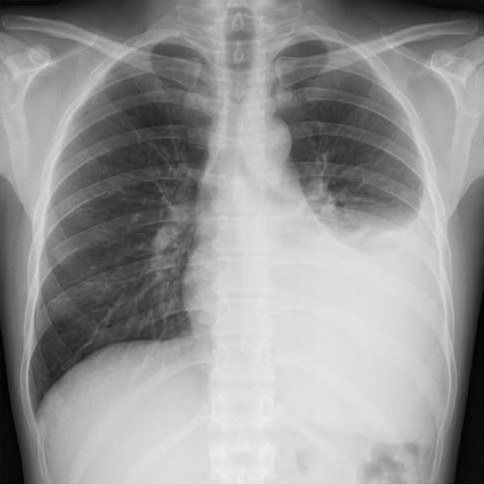
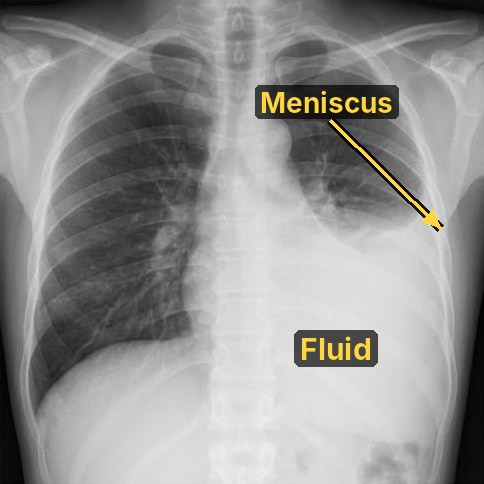
Arrows and labels on X-ray and ultrasound pictures; fix foreign-body X-ray side
Claude-Session: https://claude.ai/code/session_01S3RF2yTnkFKjBRAp2yP5iG

Changed region(s): [[0.5269, 0.155, 0.8368, 0.2789], [0.5888, 0.6818, 0.8058, 0.7748], [0.7128, 0.2789, 0.9298, 0.4959]]

diff --git a/docs/index.html b/docs/index.html
@@ -4274,7 +4274,7 @@ p.sub { font-family:'Inter',sans-serif; font-size:11pt; font-weight:800; color:v
 <tr><td class="hl">Signs</td><td>Larynx: <b>stridor</b>, hoarse voice · bronchus: <b>one-sided wheeze</b>, <b>reduced air entry on one side</b>, not helped by salbutamol</td></tr>
 <tr><td class="hl">Chest X-ray</td><td>Often normal (most objects are not radio-opaque) · <b>expiratory film</b>: <b>air trapping</b> (hyperlucent lung, mediastinum shifts to the other side) · collapse or consolidation later</td></tr>
 <tr><td class="hl">Treatment</td><td><b>Rigid bronchoscopy</b>: both diagnosis and removal · do it whenever the history is suggestive, even if the X-ray is normal</td></tr>
-</tbody></table><div class="photo"><img src="img/cystic-fibrosis_fb_xray.jpg" alt="Inspiration and expiration chest X-rays: the left lung stays dark on expiration" style="height:150px;object-fit:contain;object-position:center"><div class="cap">Expiration (2): the <b>left lung stays dark</b> (air trapping), heart shifts right</div></div></div>
+</tbody></table><div class="photo"><img src="img/cystic-fibrosis_fb_xray.jpg" alt="Inspiration and expiration chest X-rays: the right lung stays dark on expiration" style="height:150px;object-fit:contain;object-position:center"><div class="cap">On expiration the <b>right lung stays dark</b> (air trapping) and the heart shifts left</div></div></div>
 <div class="box next"><div class="bh">Best next step · choking child (paediatric basic life support)</div><ul class="b" style="margin:0">
 <li><b>Effective cough</b> (crying, talking): encourage coughing, watch closely; do not put fingers blindly in the mouth.</li>
 <li><b>Ineffective cough, conscious</b>: under 1 year: <b>5 back blows</b> (head down, prone), then <b>5 chest thrusts</b> · over 1 year: <b>5 back blows</b>, then <b>5 abdominal thrusts</b> (Heimlich) · repeat.</li>

diff --git a/content/topics/cystic-fibrosis.html b/content/topics/cystic-fibrosis.html
@@ -56,7 +56,7 @@
 <tr><td class="hl">Signs</td><td>Larynx: <b>stridor</b>, hoarse voice · bronchus: <b>one-sided wheeze</b>, <b>reduced air entry on one side</b>, not helped by salbutamol</td></tr>
 <tr><td class="hl">Chest X-ray</td><td>Often normal (most objects are not radio-opaque) · <b>expiratory film</b>: <b>air trapping</b> (hyperlucent lung, mediastinum shifts to the other side) · collapse or consolidation later</td></tr>
 <tr><td class="hl">Treatment</td><td><b>Rigid bronchoscopy</b>: both diagnosis and removal · do it whenever the history is suggestive, even if the X-ray is normal</td></tr>
-</tbody></table><div class="photo"><img src="img/cystic-fibrosis_fb_xray.jpg" alt="Inspiration and expiration chest X-rays: the left lung stays dark on expiration" style="height:150px;object-fit:contain;object-position:center"><div class="cap">Expiration (2): the <b>left lung stays dark</b> (air trapping), heart shifts right</div></div></div>
+</tbody></table><div class="photo"><img src="img/cystic-fibrosis_fb_xray.jpg" alt="Inspiration and expiration chest X-rays: the right lung stays dark on expiration" style="height:150px;object-fit:contain;object-position:center"><div class="cap">On expiration the <b>right lung stays dark</b> (air trapping) and the heart shifts left</div></div></div>
 <div class="box next"><div class="bh">Best next step · choking child (paediatric basic life support)</div><ul class="b" style="margin:0">
 <li><b>Effective cough</b> (crying, talking): encourage coughing, watch closely; do not put fingers blindly in the mouth.</li>
 <li><b>Ineffective cough, conscious</b>: under 1 year: <b>5 back blows</b> (head down, prone), then <b>5 chest thrusts</b> · over 1 year: <b>5 back blows</b>, then <b>5 abdominal thrusts</b> (Heimlich) · repeat.</li>

diff --git a/tools/annotate.py b/tools/annotate.py
@@ -1,0 +1,27 @@
+"""Draw yellow arrows and labels on X-ray / ultrasound pictures (owner: mark the sign for students).
+Usage: from tools.annotate import run; run("name", [("a",(x1,y1),(x2,y2)), ("t",(x,y),"Label",size)])
+Reads D+name+".jpg" and overwrites it; keep the original (git) and re-annotate from it."""
+import math,sys
+from PIL import Image,ImageDraw,ImageFont
+D='/home/user/pediatrics-master-review/content/img/'
+FONT='/usr/share/fonts/opentype/inter/Inter-Bold.otf'
+Y=(255,214,64)
+def label(d,xy,text,size):
+    f=ImageFont.truetype(FONT,size); x,y=xy
+    b=d.textbbox((x,y),text,font=f); p=max(4,size//5)
+    d.rounded_rectangle((b[0]-p,b[1]-p,b[2]+p,b[3]+p),radius=p,fill=(0,0,0,175))
+    d.text((x,y),text,font=f,fill=Y)
+    return b
+def arrow(d,a,b,w):
+    for col,ww in (((0,0,0,230),w+4),(Y+(255,),w)):
+        d.line([a,b],fill=col,width=ww)
+        ang=math.atan2(b[1]-a[1],b[0]-a[0]); L=w*4
+        pts=[b,(b[0]-L*math.cos(ang-0.45),b[1]-L*math.sin(ang-0.45)),(b[0]-L*math.cos(ang+0.45),b[1]-L*math.sin(ang+0.45))]
+        d.polygon(pts,fill=col)
+def run(name,items,size=26,w=5,src=None):
+    im=Image.open(D+(src or name)+'.jpg').convert('RGBA'); ov=Image.new('RGBA',im.size,(0,0,0,0)); d=ImageDraw.Draw(ov)
+    for it in items:
+        if it[0]=='a': arrow(d,it[1],it[2],w)
+    for it in items:
+        if it[0]=='t': label(d,it[1],it[2],it[3] if len(it)>3 else size)
+    Image.alpha_composite(im,ov).convert('RGB').save(D+name+'.jpg',quality=90)

diff --git a/CLAUDE.md b/CLAUDE.md
@@ -66,6 +66,7 @@ with the owner's obstetrics app as a second reference. Theme: the cover's dark t
   at the bottom of every page: check it after each topic (gaps remain only at a topic's end or before a box taller than the gap).
 - **Never crowded (owner):** boxes and cells stay short and airy: one idea per line, a small table or list instead of
   a dense paragraph; split long content rather than packing it.
+- **Marked pictures (owner):** X-rays and ultrasound pictures carry short yellow labels and arrows on the sign (tools/annotate.py; labels inside the part of the picture that shows on the page, readable at page size); check the side (patient right = image left) before labelling.
 - **Pictures placed well (owner):** small to medium, never big (about 140–160 px high; the picture column
   at most a third of the width, text gets the rest), sharp, whole subject visible (check the crop),
   beside a full-height text block or in a full-width row of 2–3, never squeezed under a short list in a narrow column;
